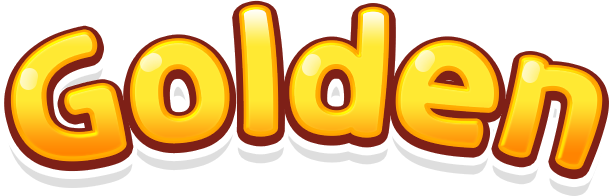
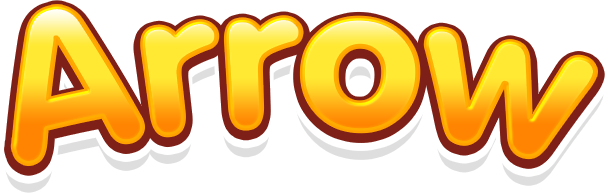
파닉스 인트로 타이틀, 하단문구 변경

diff --git a/src/componens/game/phonics/GameIntro.tsx b/src/componens/game/phonics/GameIntro.tsx
@@ -87,17 +87,15 @@ const GameIntro: FC = () => {
          gsap.to(subTitle1, 1, { delay: 1, pixi: {rotation: 0, alpha: 1}, ease: Back.easeOut.config(3) });
          gsap.from(subTitle1, 1, { delay: 1, pixi: {x: `-=100`}, ease: Power4.easeOut });
 
-         gsap.to(subTitle2, 1, { delay: 1.2, pixi: {rotation: 0, alpha: 1}, ease: Back.easeOut.config(3)});
-         gsap.from(subTitle2, 1, { delay: 1.2,  pixi: {x: `-=100`}, ease: Power4.easeOut });
 
-         gsap.to(line, 1, { delay: 1.4, pixi: {rotation: 0, alpha: 1}, ease: Back.easeOut.config(3) });
-         gsap.from(line, 1, { delay: 1.4,  pixi: {x: `-=100`}, ease: Power4.easeOut });
+         gsap.to(line, 1, { delay: 1.2, pixi: {rotation: 0, alpha: 1}, ease: Back.easeOut.config(3) });
+         gsap.from(line, 1, { delay: 1.2,  pixi: {x: `-=100`}, ease: Power4.easeOut });
 
          
-         gsap.from(infoTxt, 0.6, {delay: 1.5, pixi: {y: '+=100'}, ease: Power2.easeOut});
-         gsap.to(infoTxt, 0.6, {delay: 1.5, pixi: {alpha: 1}});
+         gsap.from(infoTxt, 0.6, {delay: 1.3, pixi: {y: '+=100'}, ease: Power2.easeOut});
+         gsap.to(infoTxt, 0.6, {delay: 1.3, pixi: {alpha: 1}});
          
-         gsap.to(startBtn, 0.6, {delay: 1.7, pixi: {y: 0, alpha: 1}, ease: Power2.easeOut});
+         gsap.to(startBtn, 0.6, {delay: 1.5, pixi: {y: 0, alpha: 1}, ease: Power2.easeOut});
 
          
          
@@ -108,15 +106,14 @@ const GameIntro: FC = () => {
          
          gsap.to(textLight1, 0.5, {delay: 1, pixi: {alpha: 1}});
          gsap.to(textLight2, 0.5, {delay: 2, pixi: {alpha: 1}});
-         gsap.to(textLight3, 0.5, {delay: 2.2, pixi: {alpha: 1}});
 
          gsap.to(textLight1, 0.6, {delay: 1.5, pixi: {alpha: 0.5, scale:0.3}, yoyo: true, repeat: -1, ease: Linear.easeNone});
          gsap.to(textLight2, 0.6, {delay: 2.5, pixi: {alpha: 0.5, scale:0.3}, yoyo: true, repeat: -1, ease: Linear.easeNone});
-         gsap.to(textLight3, 0.6, {delay: 2.8, pixi: {alpha: 0.5, scale:0.3}, yoyo: true, repeat: -1, ease: Linear.easeNone});
+         
 
          gsap.to(textLight1, 5, {pixi: {rotation: 360}, repeat: -1, ease: Linear.easeNone});
          gsap.to(textLight2, 5, {pixi: {rotation: -360}, repeat: -1, ease: Linear.easeNone});
-         gsap.to(textLight3, 5, {pixi: {rotation: 360}, repeat: -1, ease: Linear.easeNone});
+         
 
       } else {
          bg.scale.set(1);
@@ -164,25 +161,19 @@ const GameIntro: FC = () => {
          
          <Sprite 
             name="mainTitle" 
-            position={[1024, 352]}
+            position={[1024, 515]}
             alpha={0}
             anchor={[0.5, 1]}
             texture={resources.introMainTitle.texture} />
          
          <Sprite 
             name="subTitle1" 
-            position={[1024, 1320]}
+            position={[1024, 1470]}
             rotation={-Math.PI/8}
             alpha={0}
             anchor={[0.5, 5]}
             texture={resources.introSubTitle1.texture} />
-         <Sprite 
-            name="subTitle2" 
-            position={[1024, 1665]}
-            rotation={-Math.PI/8}
-            alpha={0}
-            anchor={[0.5, 5]}
-            texture={resources.introSubTitle2.texture} />
+         
          <Sprite 
             name="line" 
             position={[1024, 1783]}
@@ -193,24 +184,18 @@ const GameIntro: FC = () => {
 
          <Sprite 
             name="textLight1" 
-            position={[1295, 240]}
+            position={[1235, 337]}
             scale={0.7}
             anchor={0.5}
             alpha={0}
             texture={resources.introTextLight.texture} />
          <Sprite 
             name="textLight2" 
-            position={[1080, 345]}
+            position={[750, 518]}
             anchor={0.5}
             alpha={0}
             texture={resources.introTextLight.texture} />
-         <Sprite 
-            name="textLight3" 
-            position={[890, 540]}
-            scale={0.8}
-            anchor={0.5}
-            alpha={0}
-            texture={resources.introTextLight.texture} />
+         
 
          <Sprite 
             name="charactor" 

diff --git a/src/assets/PhonicsGameAssets.ts b/src/assets/PhonicsGameAssets.ts
@@ -42,7 +42,6 @@ export default ( step: number, langCode: string, low: number ) => {
       { name: 'introInfoBtn', url: `${introImgPath}info_btn.png`},
       { name: 'introMainTitle', url: `${introImgPath}main_title.png`},
       { name: 'introSubTitle1', url: `${introImgPath}sub_title1.png`},
-      { name: 'introSubTitle2', url: `${introImgPath}sub_title2.png`},
       { name: 'introLine', url: `${introImgPath}line.png`},
       { name: 'introTextLight', url: `${introImgPath}text_light.png`},
       { name: 'introLeftFocus', url: `${introImgPath}focus_left.png`},
